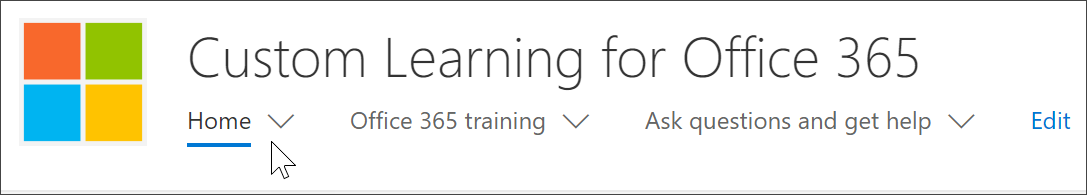
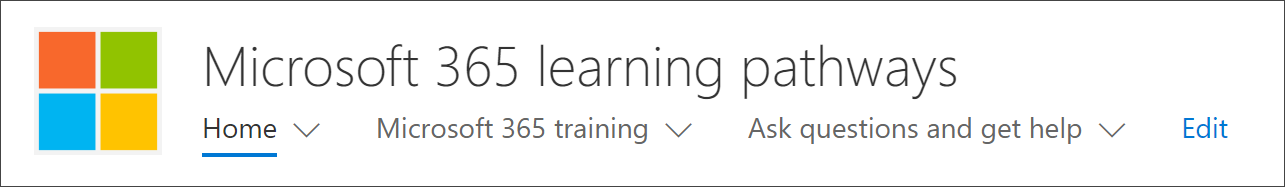
m365 rebrand

diff --git a/CustomLearning/custom_whereiswebpart.md b/CustomLearning/custom_whereiswebpart.md
@@ -1,14 +1,14 @@
 ---
 author: pkrebs
 ms.author: pkrebs
-title:  Where is the Custom Learning web part
+title:  Where is the Microsoft 365 learning web part
 ms.date: 02/15/2019
-description: Learn where the Custom Learning web part appears in the Custom Learning site
+description: Learn where the learning pathways web part appears in the learning pathways site
 ---
 
-# Where's the Custom Learning web part?
+# Where's the Microsoft 365 learning pathways web part?
 
-When Custom Learning is provisioned in your organization, the Custom Learning site and web part are added to your organization’s SharePoint tenant. As part of the provisioning, the Custom Learning web part is added to the following pages of the Custom Learning site:
+When learning pathways is provisioned in your organization, the learning pathways site and web part are added to your organization’s SharePoint tenant. As part of the provisioning, the Microsoft 365 learning web part is added to the following pages of the Microsoft 365 learning pathways site:
 
 - Start-with-Six-Simple-Steps.aspx 
 - Recommended-Playlists.aspx
@@ -17,17 +17,17 @@ When Custom Learning is provisioned in your organization, the Custom Learning si
 - Get-started-with-OneDrive.aspx
 - Get-started-with-SPO.aspx
 
-For each page, the Web part is configured differently to show the categories, subcategories, playlists or asset designed to support the intent of the page. The Custom Learning web part, as we’ll show you in later sections, can be added to just about any SharePoint page and filtered to show specific all categories, or subcategories, playlists, or just assets. Let's take a look. 
+For each page, the Web part is configured differently to show the categories, subcategories, playlists or asset designed to support the intent of the page. The learning pathways web part, as we’ll show you in later sections, can be added to just about any SharePoint page and filtered to show specific all categories, or subcategories, playlists, or just assets. Let's take a look. 
 
 ## View Microsoft Teams playlists
 
 Here’s an example of the **Get Started with Microsoft Teams** page with the Web part filtered to show the learning playlists for Teams. 
 
-- From the Custom Learning Home page, select **Get started with Microsoft Teams**.
+- From the learning pathways Home page, select **Get started with Microsoft Teams**.
 
 ![cg-whereiswp-teams.png](media/cg-whereiswp-teams.png)
 
-- Click the **Home** menu on the Custom Learning site menu to return to the site Home page.
+- Click the **Home** menu on the learning pathways site menu to return to the site Home page.
 
 ![cg-homebtnmenu.png](media/cg-homebtnmenu.png)
 
@@ -35,17 +35,17 @@ Here’s an example of the **Get Started with Microsoft Teams** page with the We
 
 The web part on the **Start-with-Six-Simple-Steps.aspx** page is configured to show the first asset in the Six Simple Steps playlist. 
 
-- From the Custom Learning Home page,  click **Start with six simple steps**. 
+- From the learning pathways Home page,  click **Start with six simple steps**. 
 
 ![cg-whereiswp-six.png](media/cg-whereiswp-six.png)
 
 ## View all Office 365 training
 
-The Web part on the **Office 365 training** page is configured to show all the categories and subcategories available from the Custom Learning catalog. This includes subcategories from Microsoft along with any subcategories that you create for your organization.
+The Web part on the **Office 365 training** page is configured to show all the categories and subcategories available from the learning pathways catalog. This includes subcategories from Microsoft along with any subcategories that you create for your organization.
 
-- From the Custom Learning Home page, click **Office 365 training**. The page appears appears with the Web part configured to show all the categories and subcategories available from the Custom Learning catalog.
+- From the learning pathways Home page, click **Office 365 training**. The page appears appears with the Web part configured to show all the categories and subcategories available from the Custom Learning catalog.
 
 ![cg-whereiswp-o365.png](media/cg-whereiswp-o365.png)
 
-- Click the **Home** menu on the Custom Learning site menu to return to the site Home page.
+- Click the **Home** menu on the learning pathways site menu to return to the site Home page.
 
